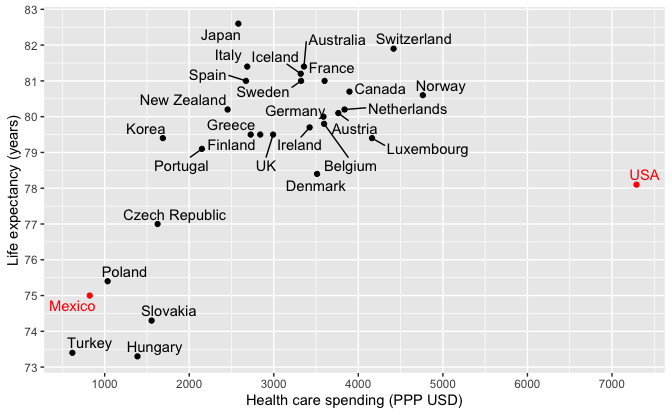
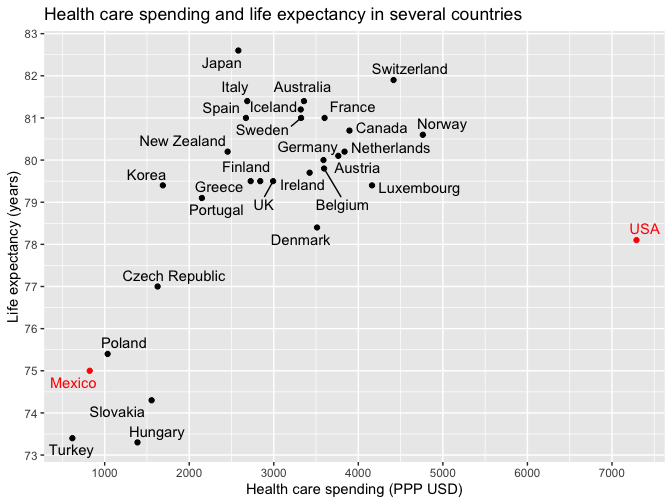
Initial commit

diff --git a/HealthExpenditure/healthexpenditure_tv.md b/HealthExpenditure/healthexpenditure_tv.md
@@ -1,10 +1,11 @@
 Regression and Other Stories: Health Expenditure
 ================
 Andrew Gelman, Jennifer Hill, Aki Vehtari
-2020-12-18
+2021-02-05
 
--   [Data](#data)
--   [Plot](#plot)
+-   [2 Data and measurement](#data-and-measurement)
+    -   [2.3 All graphs are comparisons](#all-graphs-are-comparisons)
+        -   [Simple scatterplots](#simple-scatterplots)
 
 Tidyverse version by Bill Behrman.
 
@@ -29,7 +30,13 @@ file_common <- here::here("_common.R")
 source(file_common)
 ```
 
-## Data
+# 2 Data and measurement
+
+## 2.3 All graphs are comparisons
+
+### Simple scatterplots
+
+Data.
 
 ``` r
 health <- 
@@ -55,9 +62,11 @@ health
     #> 10 Greece        2727     79.5
     #> # … with 20 more rows
 
-## Plot
+Health care spending and life expectancy in several countries.
 
 ``` r
+set.seed(576)
+
 country_recode <- 
   c(
     "Czech" = "Czech Republic",
@@ -80,6 +89,7 @@ v %>%
   ) +
   theme(legend.position = "none") +
   labs(
+    title = "Health care spending and life expectancy in several countries",
     x = "Health care spending (PPP USD)",
     y = "Life expectancy (years)"
   )
